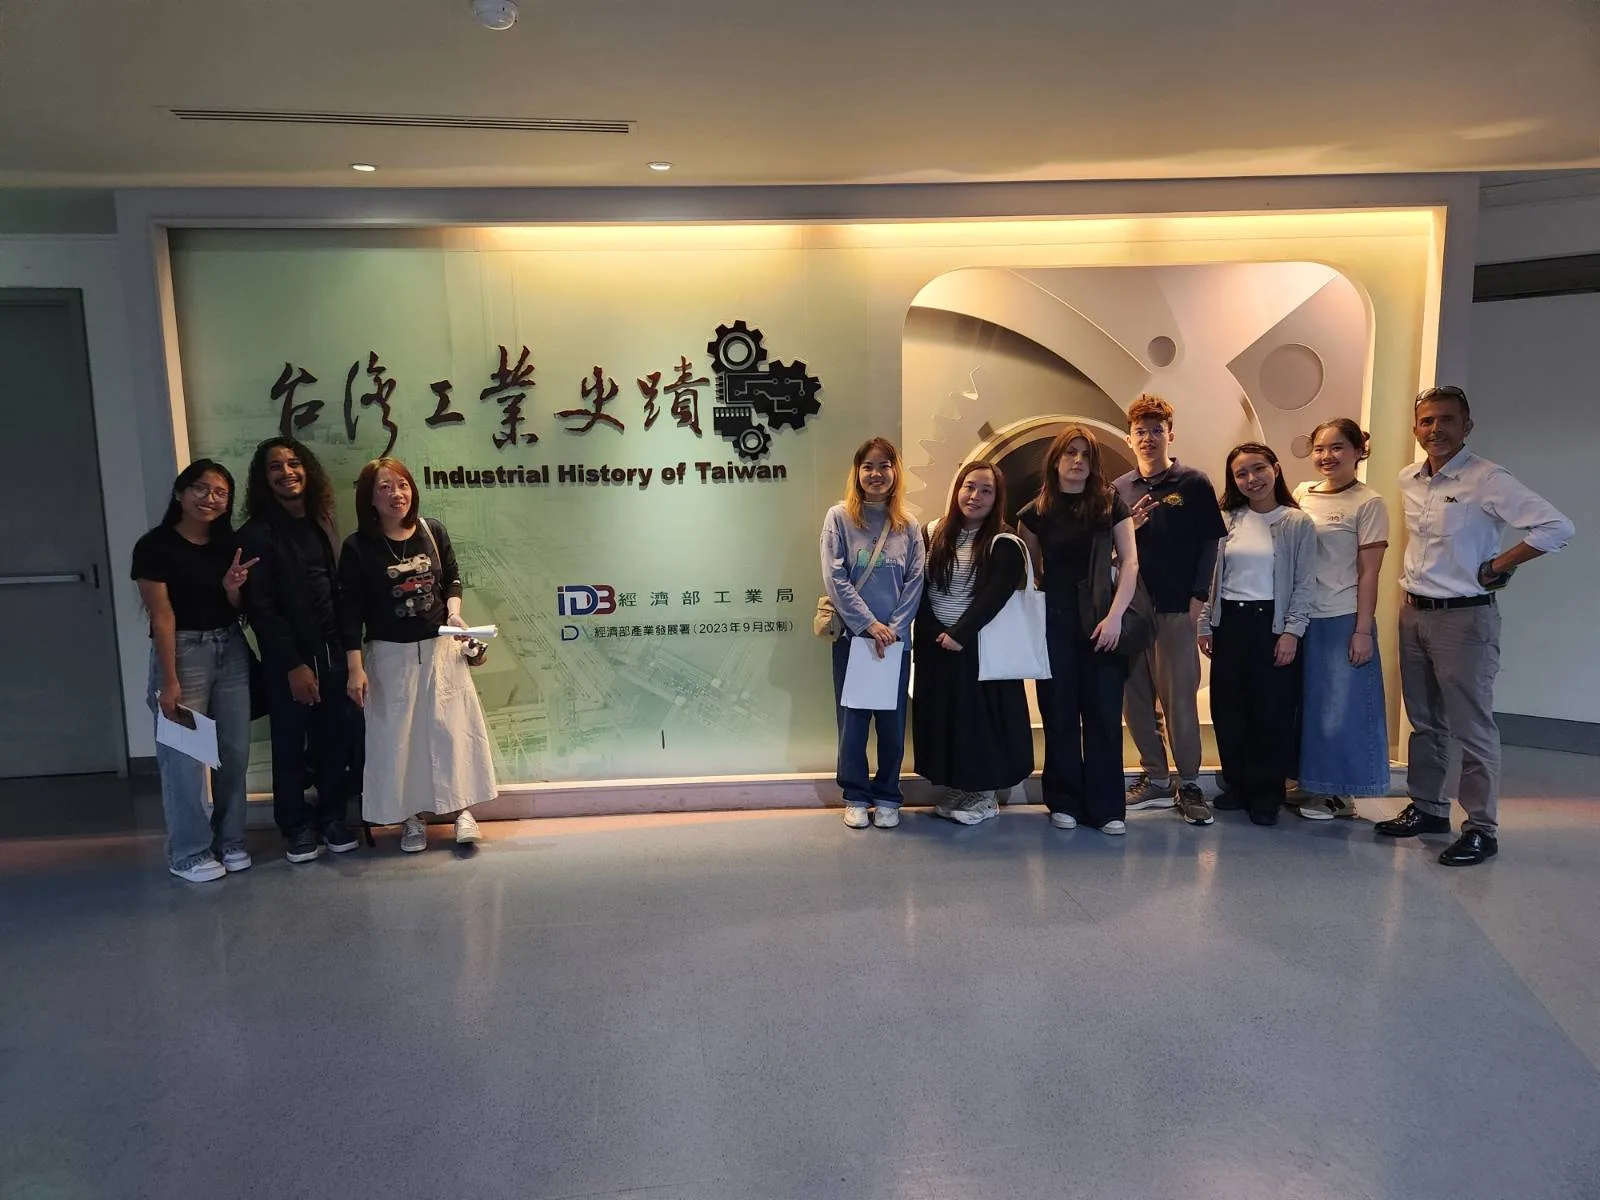
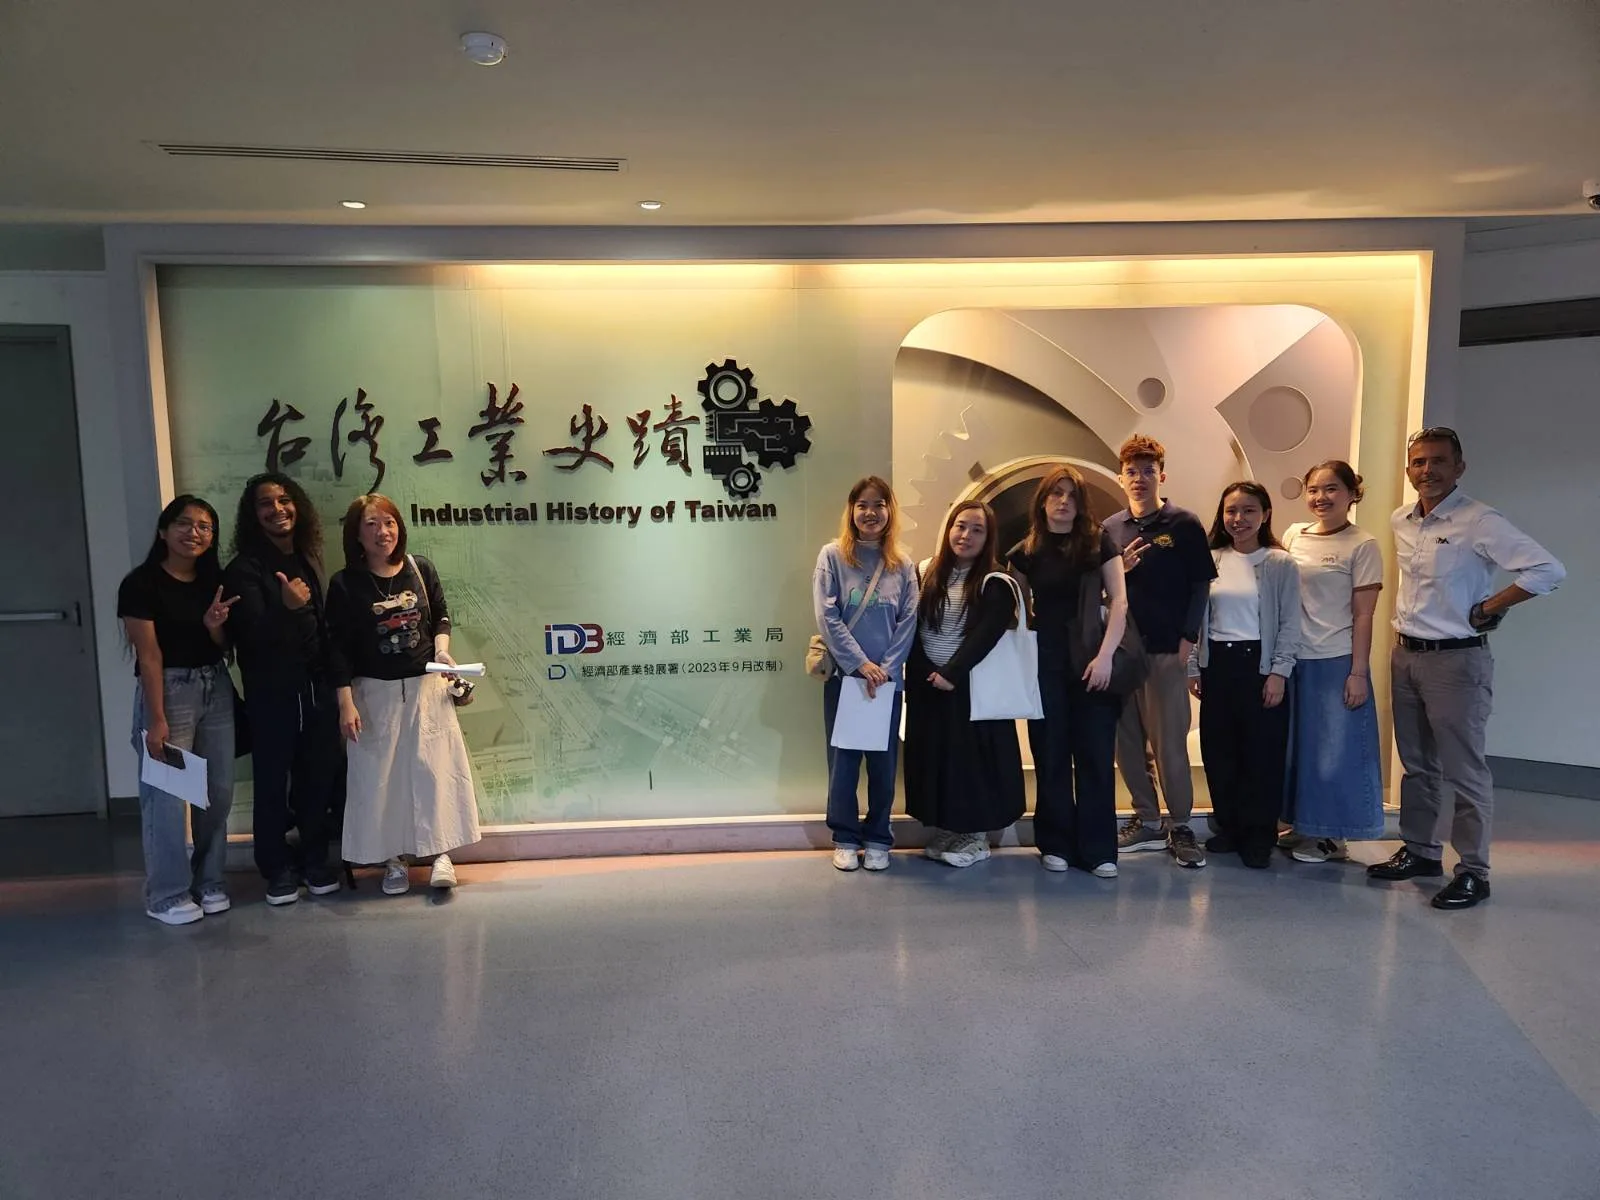
Add wafer, Tai Zi Long ad, smile curve and IC supply chain photos; swap class group photo

diff --git a/source/_posts/2026-11-20-industrial-history-of-taiwan-global-development-field-trip-nstm-kaohsiung.md b/source/_posts/2026-11-20-industrial-history-of-taiwan-global-development-field-trip-nstm-kaohsiung.md
@@ -33,6 +33,8 @@ The textile section showed most clearly how policy shapes an industry. Between 1
 
 Many of the firms that grew on this base began in Shanghai. Hsu Yu-hsiang (徐有庠) founded Far Eastern Weaving there in 1945, followed the Nationalist government to Taiwan in 1949 and built Far Eastern Textile (遠東紡織) into the first Taiwanese company to cover spinning, weaving, dyeing and garments by 1965. The same retreat brought the Tompkins knitting machine, the "trolley machine," which Chung Shing Textile (中興紡織) and skilled Shanghai craftsmen used to make Three Gun (三槍牌) underwear. Three Gun shared fame with Far Eastern's 洋房牌 (Skyscraper) brand. A photo of the 1966 opening of a Skyscraper brand store in Taichung can be seen on the [Taiwan Cultural Memory Bank](https://cmsdb.culture.tw/object/0C2394A1-1076-4DEF-8ED3-68ECF4B0EB58). Policy set the conditions, but private entrepreneurs built these firms. When US Aid ended in 1965, Taiwan lost American cotton and turned to man-made fibers. That year Tainan Spinning (臺南紡織) produced the durable Tai Zi Long (太子龍) fabric, which was widely used to make students' uniforms and pushed the industry up the value chain.
 
+<figure><img src="{% asset_path tai-zi-long-student-uniform-advertisement.webp %}" alt="A vintage advertisement for Tai Zi Long student uniforms showing a boy in a khaki uniform and a girl in a white blouse and dark skirt, with the Tainan Spinning name at the bottom" loading="lazy" decoding="async" /><figcaption>A vintage advertisement for Tai Zi Long student uniforms from Tainan Spinning, on display in the exhibition</figcaption></figure>
+
 ## Semiconductors, from Packaging to Foundry
 
 The museum's industrial history site gives a clear timeline, from back-end packaging in the 1960s to System-on-Chip (SoC) innovation after 2000.
@@ -43,6 +45,10 @@ In the foreign-led stage (1960-1974), export policy drew American firms to do tr
 
 The state then cultivated local firms (1980-1989). The Hsinchu Science Park opened in 1980, and ERSO spun off UMC in 1981 and TSMC in 1987, the world's first dedicated foundry, both with private capital. From 1990 onward, local firms took control, and by 1994, when ERSO spun off Vanguard International Semiconductor, private firms were complaining about unfair state competition, a sign they had grown strong.
 
+<figure><img src="{% asset_path ic-supply-chain-exhibition-panel.webp %}" alt="An exhibition flowchart of the IC industry with five yellow circles for design, mask, manufacture, packaging and testing, arrows leading to IC products, and lists of Taiwanese companies under each step" loading="lazy" decoding="async" /><figcaption>The exhibition panel on Taiwan's IC supply chain, from design, masks and manufacturing to packaging and testing, with Taiwanese companies listed under each step</figcaption></figure>
+
+<figure><img src="{% asset_path 12-inch-silicon-wafer-display.webp %}" alt="A round 12-inch silicon wafer mounted behind a clear acrylic disc on a wall, with a label and an English button beside it" loading="lazy" decoding="async" /><figcaption>A 12-inch silicon wafer on display in the exhibition</figcaption></figure>
+
 In short, the state supplied technology, institutions and the first firms, while private capital funded them, returning scholars joined them and foreign firms provided the early work and know-how.
 
 ## Conclusion, Who Built It and What Comes Next
@@ -50,5 +56,7 @@ In short, the state supplied technology, institutions and the first firms, while
 The pattern across the exhibition is a mix. The institutions included the Qing provincial government, US Aid, ITRI and the Hsinchu Science Park. The people included Liu Mingchuan, Yin Chung-jung, Hsu Yu-hsiang (徐有庠) and Howard L. Parsons. My answer to the top-down question is "partly." The state set the frame, but outside powers shaped what was possible, and private entrepreneurs did much of the building.
 
 Looking ahead, Stan Shih, founder of Acer, proposed the "smiling curve," in which value added is high in R&D, design, branding and service and low in the manufacturing and assembly stages in the middle. Semiconductor manufacturing is Taiwan's great strength, and with AI rising, much of the profit goes to firms that design and make advanced chips. Two challenges stand out. The first is over-concentration. Semiconductors are the only industry making big money, while many others remain underdeveloped, underrepresented or underfunded. The second is geopolitics. The politics of the regimes around Taiwan have always shaped its industry and remain its largest risk. Whether Taiwan moves toward the high-value ends of the smiling curve will depend on the same mix of state, outside powers and entrepreneurs that built its industry.
+
+<figure><img src="{% asset_path smile-curve-exhibition-panel.webp %}" alt="An exhibition wall panel with two smile curve charts in Chinese and English, the lower chart showing arrows for how Taiwanese electronics makers move toward the high-value ends of the curve" loading="lazy" decoding="async" /><figcaption>The exhibition panel on the smile curve</figcaption></figure>
 
 <figure><img src="{% asset_path class-group-photo-at-exhibition-entrance.webp %}" alt="A group of ten people standing in a row in front of the Industrial History of Taiwan entrance wall" loading="lazy" decoding="async" /><figcaption>Our class at the exhibition entrance</figcaption></figure>
